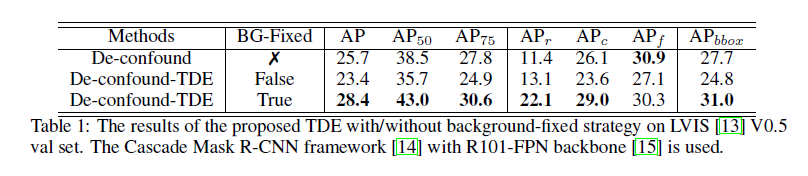
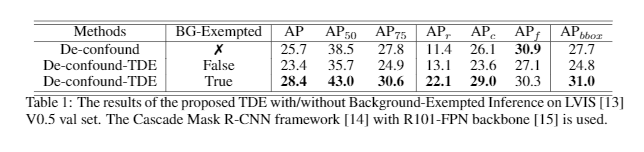
no message

diff --git a/lvis1.0/README.md b/lvis1.0/README.md
@@ -18,16 +18,18 @@ The hyper-parameters of the proposed TDE are actually in convfc_bbox_head.py rat
 CUDA_VISIBLE_DEVICES=0,1,2,3,4,5,6,7 PORT=112222 bash ./tools/dist_test.sh configs/htc/htc_r101_fpn_20e_causal.py work_dirs/htc_r101_fpn_20e_causal/latest.pth 8 --eval bbox segm
 ```
 
-### Background Fixed TDE
-This is a very useful trick to apply TDE on object detection or instance segmentation. As we discussed in our supplementary materials, In object detection and instance segmentation tasks, the existing frameworks usually need a background category for the classifier to filter the trivial regions, which is also a head class. However, the preference towards the background is not just a good bias but also an essential bias. Otherwise, the results will be full of meaningless trivial bounding boxes or regions. Therefore, we propose a background-fixed TDE that freezes the foreground / background probability ratio before and after the TDE for each prediction. The background-fixed TDE can be formulated as:
+### Background-Exempted Inference
+This is a very useful trick to apply TDE on object detection or instance segmentation. As we discussed in our supplementary materials, In object detection and instance segmentation tasks, the existing frameworks usually need a background category for the classifier to filter the trivial regions, which is also a head class. However, the preference towards the background is not just a good bias but also an essential bias. Otherwise, the results will be full of meaningless trivial bounding boxes or regions. Therefore, we propose a Background-Exempted Inference that freezes the foreground / background probability ratio before and after the TDE for each prediction. The Background-Exempted Inference can be formulated as:
 
 ![alt text](bg-fix.png "from 'Supplementary Material of Long-Tailed Classification by Keeping the Good and Removing the Bad Momentum Causal Effect'")
 
-The results with and without background-fixed TDE are reported as follows:
+where i = 0 is the background class, p_i = P(Y =i | do(X = x)) is the original probability, and q_i is the softmax activated probability of the TDE(Y_i).
+
+The results with and without Background-Exempted Inference are reported as follows:
 
 ![alt text](bg-fix-table.png "from 'Supplementary Material of Long-Tailed Classification by Keeping the Good and Removing the Bad Momentum Causal Effect'")
 
-As we can see, the background-fixed strategy successfully prevents the TDE from hurting the foreground-background selection. It is the key to apply TDE in tasks like object detection and instance segmentation that include one or more legitimately biased head categories, i.e., this strategy allows us to conduct TDE on a selected subset of categories.
+As we can see, the Background-Exempted Inference strategy successfully prevents the TDE from hurting the foreground-background selection. It is the key to apply TDE in tasks like object detection and instance segmentation that include one or more legitimately biased head categories, i.e., this strategy allows us to conduct TDE on a selected subset of categories.
 
 ### Results
 
